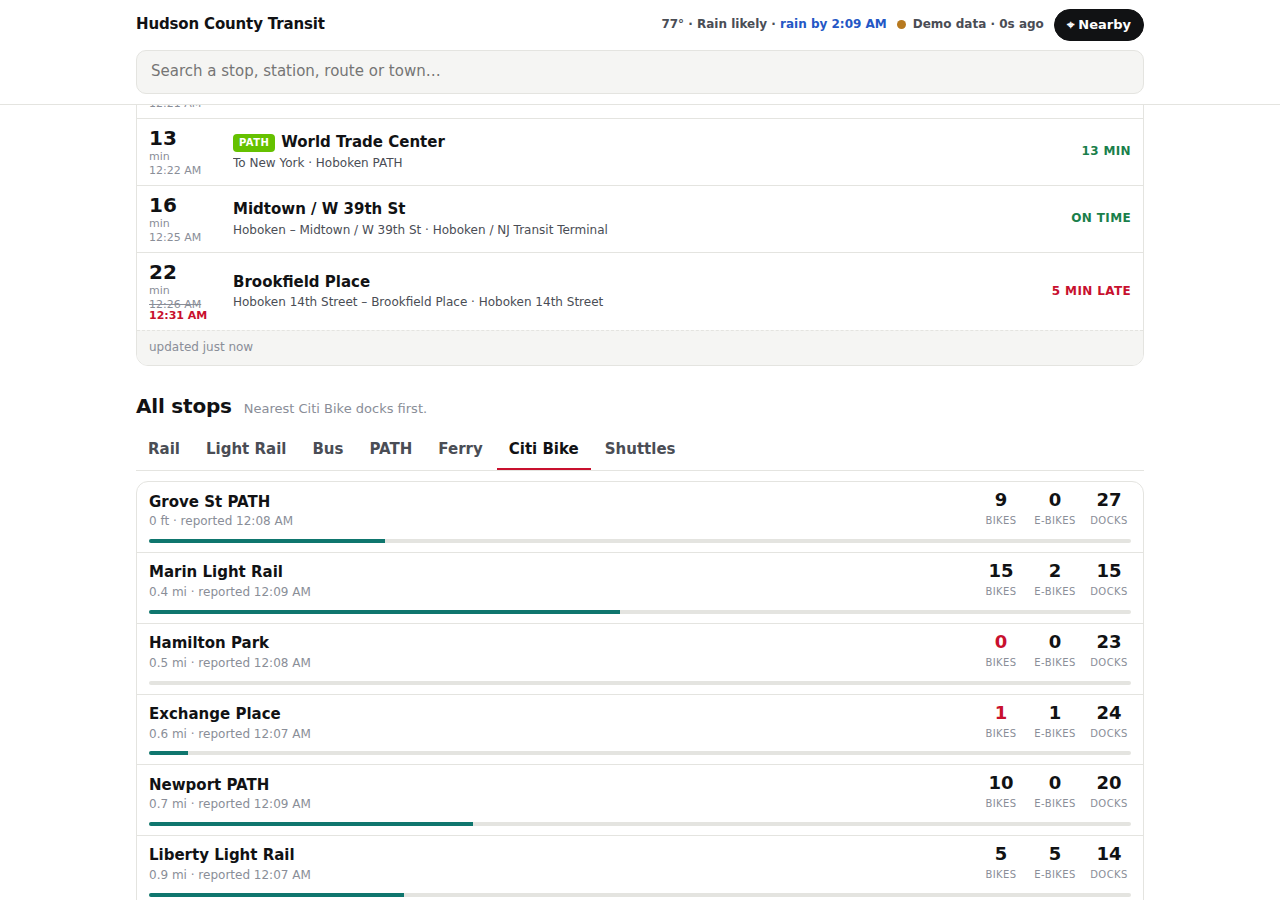
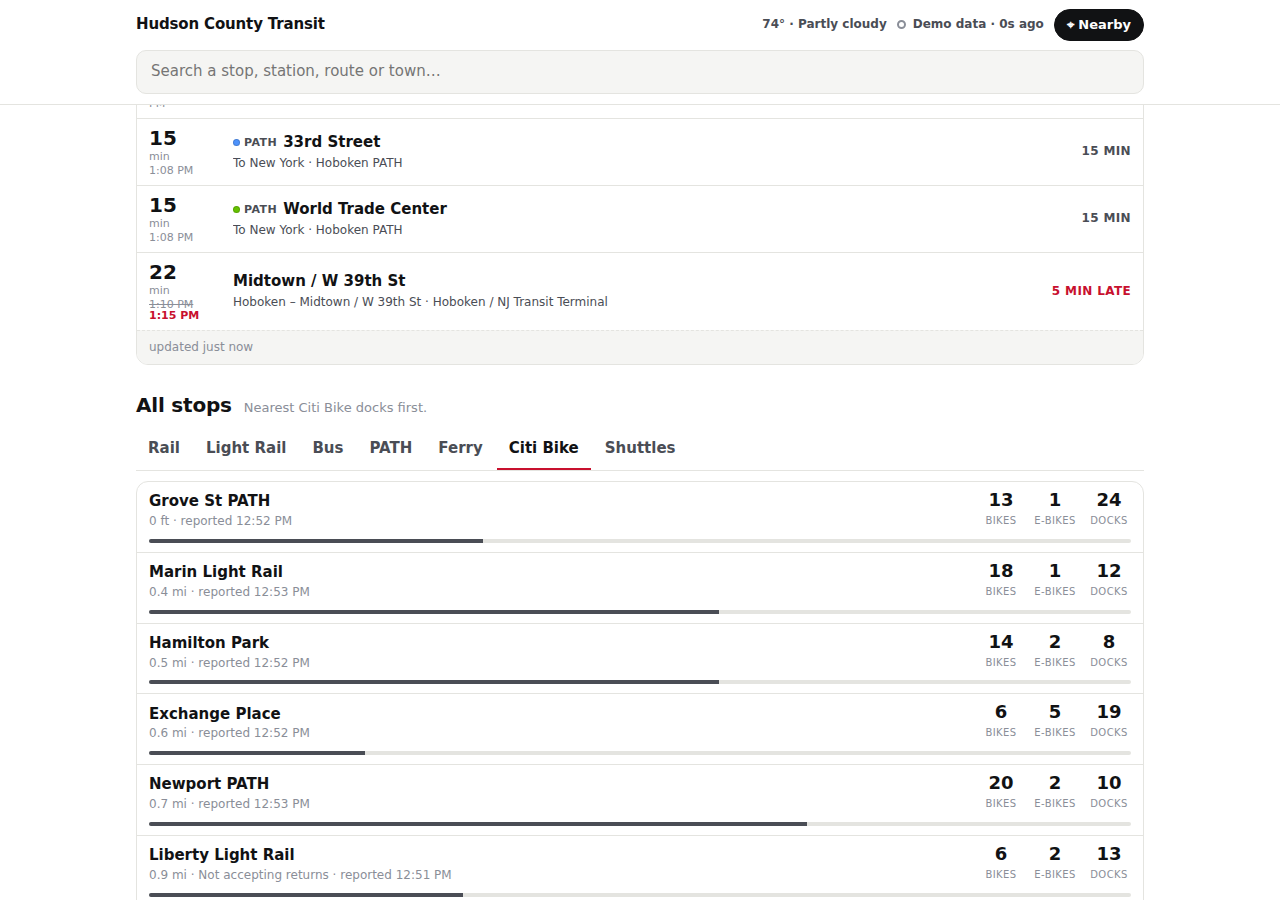
Reduce palette to grey scale plus one attention color
Readers found the mix of mode, status and line colors confusing. Modes
become outlined text pills, statuses are grey unless late or cancelled,
official line colors shrink to a dot beside the line name, and the brand
color is reserved for alerts, delays, stale data and selection.

Claude-Session: https://claude.ai/code/session_01BY3JvGGJD4NSabe3AgGdwM

diff --git a/public/styles.css b/public/styles.css
@@ -1,9 +1,11 @@
-/* Brand tokens. hudpost.com wasn't reachable from the build environment; swap --brand/--ink to match. */
+/* Palette rule: grey scale for everything, --brand only when something needs attention
+   (late, cancelled, stale, incident, alert) or is selected. Official NJ Transit / PATH line
+   colors appear only as a 6px dot so riders can match station signage. No other hues.
+   --brand is a placeholder until hudpost.com's real value is supplied. */
 :root {
   --brand: #c8102e; --ink: #111214; --ink-2: #4a4d55; --ink-3: #8a8e98;
   --paper: #ffffff; --paper-2: #f5f5f3; --line: #e4e4e0;
-  --ok: #1a7f4b; --warn: #b7791f; --bad: #c8102e; --info: #2457c5;
-  --rail: #1d4ed8; --lightrail: #0d9488; --bus: #7c3aed; --ferry: #0369a1; --path: #b45309; --bikes: #0f766e; --shuttles: #be185d;
+  --bad: var(--brand);
   --sans: Inter, system-ui, -apple-system, "Segoe UI", Roboto, sans-serif;
   --radius: 12px;
 }
@@ -24,13 +26,13 @@ button { font: inherit; }
 .topbar__title { font-weight: 800; letter-spacing: -0.01em; flex: 1; white-space: nowrap; }
 .fresh { display: inline-flex; align-items: center; gap: 7px; font-size: 12px; font-weight: 600; color: var(--ink-2); white-space: nowrap; }
 .fresh .dot { width: 9px; height: 9px; border-radius: 50%; background: var(--ink-3); }
-.fresh.is-live .dot { background: var(--ok); box-shadow: 0 0 0 3px color-mix(in srgb, var(--ok) 20%, transparent); }
-.fresh.is-mock .dot { background: var(--warn); }
+.fresh.is-live .dot { background: var(--ink); }
+.fresh.is-mock .dot { background: transparent; border: 2px solid var(--ink-3); }
 .fresh.is-stale .dot, .fresh.is-error .dot { background: var(--bad); }
 .btn { appearance: none; border: 1px solid var(--line); background: var(--paper); color: var(--ink); border-radius: 999px; padding: 6px 12px; font-size: 13px; font-weight: 600; cursor: pointer; white-space: nowrap; }
 .btn.is-active { background: var(--ink); color: var(--paper); border-color: var(--ink); }
 .search { width: 100%; font: inherit; padding: 10px 14px; border: 1px solid var(--line); border-radius: 10px; background: var(--paper-2); color: var(--ink); }
-.search:focus { outline: 2px solid var(--brand); outline-offset: 0; }
+.search:focus { outline: 2px solid var(--ink); outline-offset: 0; }
 
 /* Sections */
 .sec { margin-top: 26px; }
@@ -53,11 +55,9 @@ button { font: inherit; }
 .empty-fav .chips { margin-top: 10px; }
 
 /* Mode pill & star */
-.mode { display: inline-block; font-size: 10px; font-weight: 800; letter-spacing: .06em; text-transform: uppercase; color: #fff; padding: 2px 6px; border-radius: 4px; }
-.mode.rail { background: var(--rail); } .mode.lightrail { background: var(--lightrail); } .mode.bus { background: var(--bus); } .mode.ferry { background: var(--ferry); }
-.mode.path { background: var(--path); } .mode.bikes { background: var(--bikes); } .mode.shuttles { background: var(--shuttles); }
+.mode { display: inline-block; font-size: 10px; font-weight: 700; letter-spacing: .06em; text-transform: uppercase; color: var(--ink-2); border: 1px solid var(--line); padding: 1px 6px; border-radius: 4px; white-space: nowrap; }
 .star { appearance: none; border: 0; background: none; cursor: pointer; font-size: 20px; line-height: 1; color: var(--ink-3); padding: 2px 4px; }
-.star.is-on { color: var(--warn); }
+.star.is-on { color: var(--ink); }
 
 /* Departure rows */
 .board { border: 1px solid var(--line); border-radius: var(--radius); overflow: hidden; background: var(--paper); }
@@ -70,11 +70,12 @@ button { font: inherit; }
 .row__main { min-width: 0; }
 .row__dest { font-weight: 600; display: flex; align-items: center; gap: 6px; flex-wrap: wrap; }
 .row__sub { color: var(--ink-2); font-size: 12px; margin-top: 1px; overflow: hidden; text-overflow: ellipsis; white-space: nowrap; }
-.line { font-size: 10px; font-weight: 800; padding: 2px 6px; border-radius: 4px; letter-spacing: .04em; }
+.line { font-size: 11px; font-weight: 700; color: var(--ink-2); letter-spacing: .04em; display: inline-flex; align-items: center; gap: 4px; }
+.line .dot { width: 7px; height: 7px; border-radius: 50%; display: inline-block; border: 1px solid rgba(0,0,0,.15); }
 .route { display: inline-grid; place-items: center; min-width: 40px; height: 26px; padding: 0 7px; border-radius: 6px; background: var(--ink); color: var(--paper); font-weight: 800; font-size: 13px; }
 .row__right { text-align: right; display: grid; gap: 2px; }
 .badge { font-size: 12px; font-weight: 800; text-transform: uppercase; letter-spacing: .03em; }
-.badge.ok { color: var(--ok); } .badge.warn { color: var(--warn); } .badge.bad { color: var(--bad); } .badge.sched { color: var(--ink-3); font-weight: 600; }
+.badge.ok { color: var(--ink-2); } .badge.warn { color: var(--ink); } .badge.bad { color: var(--bad); } .badge.sched { color: var(--ink-3); font-weight: 600; }
 .track { font-size: 12px; color: var(--ink-2); font-weight: 600; }
 .track.tba { color: var(--ink-3); font-weight: 400; }
 .empty, .loading, .error { padding: 22px 12px; text-align: center; color: var(--ink-3); font-size: 14px; }
@@ -109,7 +110,7 @@ button { font: inherit; }
 
 /* Weather hint */
 .wx { font-size: 12px; font-weight: 600; color: var(--ink-2); white-space: nowrap; }
-.wx b { color: var(--info); }
+.wx b { color: var(--ink); font-weight: 800; }
 .wx:empty { display: none; }
 
 /* Road crossings strip */
@@ -118,7 +119,7 @@ button { font: inherit; }
 .road { flex: 0 0 auto; border: 1px solid var(--line); border-radius: 10px; padding: 6px 10px; min-width: 150px; font-size: 12px; background: var(--paper); }
 .road__name { font-weight: 700; font-size: 13px; }
 .road__state { font-weight: 800; text-transform: uppercase; letter-spacing: .03em; font-size: 11px; }
-.road__state.ok { color: var(--ok); } .road__state.warn { color: var(--warn); } .road__state.bad { color: var(--bad); }
+.road__state.ok { color: var(--ink-3); } .road__state.warn { color: var(--ink); } .road__state.bad { color: var(--bad); }
 .road__note { color: var(--ink-3); }
 
 /* Bikes */
@@ -132,19 +133,19 @@ button { font: inherit; }
 .bike__nums small { font-size: 10px; text-transform: uppercase; letter-spacing: .04em; color: var(--ink-3); }
 .bike__nums .low b { color: var(--bad); }
 .bike__bar { grid-column: 1 / -1; height: 4px; border-radius: 2px; background: var(--line); overflow: hidden; }
-.bike__bar i { display: block; height: 100%; background: var(--bikes); }
+.bike__bar i { display: block; height: 100%; background: var(--ink-2); }
 
 /* Shuttles */
 .shuttle { padding: 10px 12px; border-top: 1px solid var(--line); font-size: 13px; }
 .shuttle:first-child { border-top: 0; }
 .shuttle b { display: block; font-size: 14px; }
 .shuttle .veh { display: inline-block; margin: 4px 6px 0 0; padding: 3px 8px; border-radius: 999px; background: var(--paper-2); border: 1px solid var(--line); font-size: 12px; }
-.shuttle .veh.on { border-color: var(--ok); color: var(--ok); font-weight: 600; }
+.shuttle .veh.on { border-color: var(--ink); color: var(--ink); font-weight: 700; }
 
 /* Other services */
 .other { display: grid; grid-template-columns: repeat(auto-fill, minmax(280px, 1fr)); gap: 10px; }
 .svc { border: 1px solid var(--line); border-radius: 10px; padding: 10px 12px; font-size: 13px; }
 .svc b { display: block; font-size: 14px; }
 .svc .kind { color: var(--ink-3); font-size: 12px; }
-.svc .warn { color: var(--warn); font-weight: 600; }
-.svc a { color: var(--info); font-weight: 600; text-decoration: none; }
+.svc .warn { color: var(--bad); font-weight: 600; }
+.svc a { color: var(--ink); font-weight: 600; text-decoration: underline; text-underline-offset: 2px; }

diff --git a/public/app.js b/public/app.js
@@ -85,8 +85,9 @@ function toRow(mode, d) {
   else if (/CANCEL/.test(status)) { cls = 'bad'; badge = 'Cancelled'; }
   else if (d.source === 'schedule' || status === 'SCHEDULED') { cls = 'sched'; badge = 'Scheduled'; }
   const est = d.scheduled ? new Date(new Date(d.scheduled).getTime() + delay * 60000).toISOString() : null;
-  let tag = mode === 'rail' && d.lineAbbr ? `<span class="line" style="background:${esc(d.colors?.bg || '#888')};color:${esc(d.colors?.fg || '#fff')}">${esc(d.lineAbbr)}</span>` : '';
-  if (mode === 'path' && d.lineColor) tag = `<span class="line" style="background:${esc(d.lineColor)};color:#fff">PATH</span>`;
+  const dot = (c) => (c ? `<i class="dot" style="background:${esc(c)}"></i>` : '');
+  let tag = mode === 'rail' && d.lineAbbr ? `<span class="line">${dot(d.colors?.bg)}${esc(d.lineAbbr)}</span>` : '';
+  if (mode === 'path') tag = `<span class="line">${dot(d.lineColor)}PATH</span>`;
   if (mode === 'path' && d.etaText && cls === 'ok') badge = d.etaText;
   const sub = [mode === 'rail' ? d.line : mode === 'lightrail' || mode === 'path' ? d.direction : d.routeName, d.trainId ? `Train ${d.trainId}` : null, d.inlineMessage, d.from].filter(Boolean).join(' · ');
   const track = mode === 'rail' ? (d.track ? `Track ${d.track}` : 'Track TBA') : '';

diff --git a/README.md b/README.md
@@ -67,10 +67,15 @@ docs/njt-api.md    What the API exposes, field names, limits, open questions
 | `GET /api/shuttles?system=hop` | live shuttle count per route |
 | `GET /api/roads` · `GET /api/weather` | crossings strip, conditions hint |
 
-## Brand
+## Brand and color
 
 hudpost.com was not reachable from the build environment, so `public/styles.css` opens with placeholder
 brand tokens (`--brand`, `--ink`, fonts). Swap them to the live site's values and the rest follows.
+
+Color rule, after reader feedback that too many colors were confusing: **grey scale for everything,
+`--brand` only when something needs attention** (late, cancelled, stale, incident, alert) **or is
+selected**. Modes are outlined text pills, not colored blocks. Official NJ Transit and PATH line colors
+survive only as a 7px dot beside the line name so riders can match station signage.
 
 ## Next steps
 
